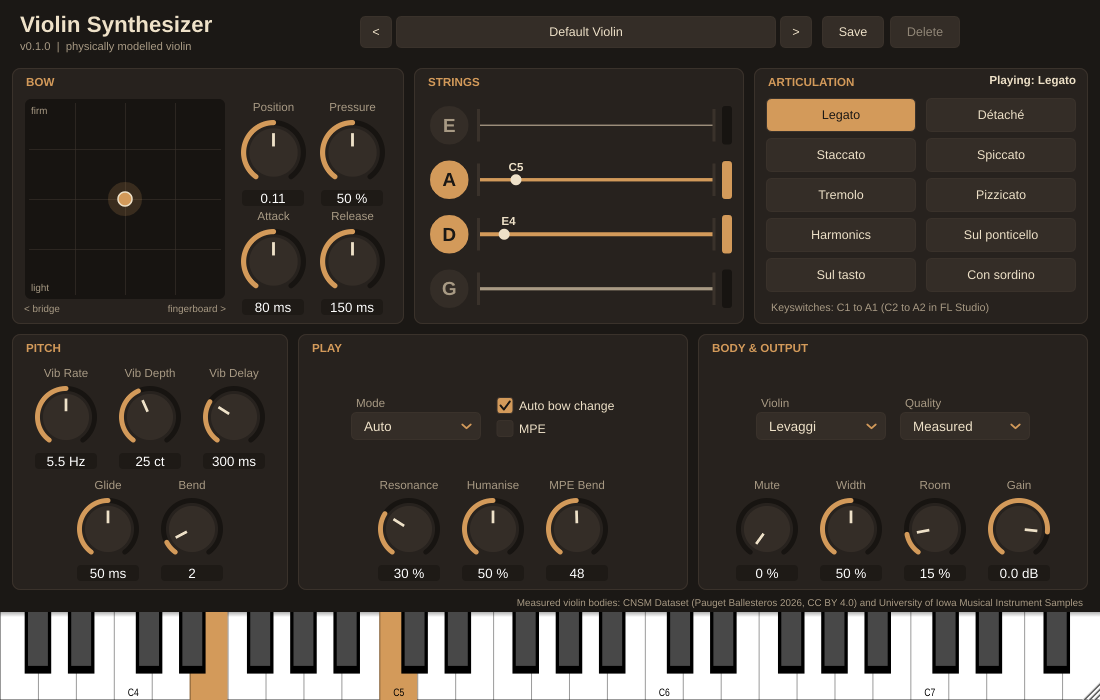
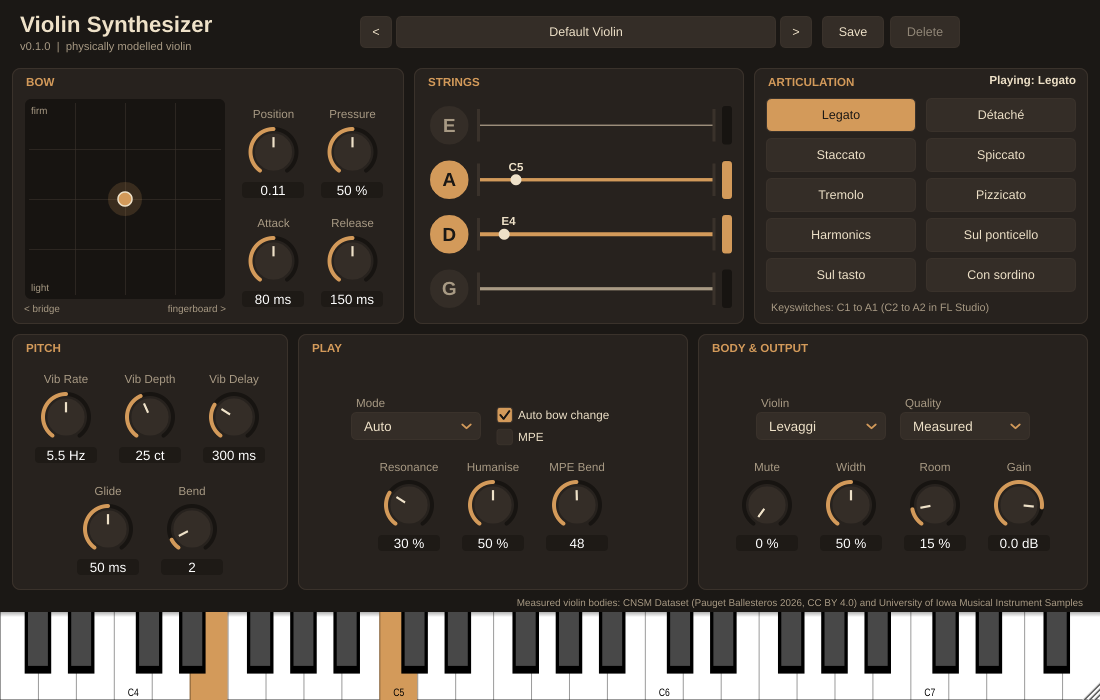
Centre the Play and Body content and shrink the knobs slightly
Play and Body & Output now centre their options and knobs together in
the panel, the switches line up with the drop-down boxes, and every knob
is a little smaller with its label and value centred in its cell, so the
Bow knobs no longer crowd each other's labels.

Claude-Session: https://claude.ai/code/session_01HJRCCAYiaSNmSYrcCVKQ5Y

diff --git a/source/plugin/PluginEditor.cpp b/source/plugin/PluginEditor.cpp
@@ -17,15 +17,20 @@ constexpr int headerHeight = 64;
 constexpr int keyboardHeight = 88;
 constexpr int creditsHeight = 18;
 
-// Bottom-row panels are built from two bands of equal height. Knobs sit in
-// fixed-width cells so they are the same size in every panel, and each panel
-// leaves room for another knob per row and another line of options.
+// Knobs in the bottom row sit in fixed-width cells, and each panel leaves
+// room for another knob per row and another line of options.
 constexpr int knobCellWidth = 84;
-constexpr int bandGap = 6;
+constexpr int rowGap = 6;
 constexpr int choiceWidth = 130;
 constexpr int toggleColumnWidth = 140;
 constexpr int optionGap = 14;
-constexpr int optionHeight = 46; // a choice's label and box, or two stacked toggles
+constexpr int optionLabelHeight = 18;
+constexpr int optionHeight = optionLabelHeight + 28; // a drop-down's label and box
+constexpr int optionLineGap = 8;
+constexpr int toggleHeight = 22;
+
+// Every knob in the editor: label, dial and value box.
+constexpr int knobHeight = 18 + 58 + 18;
 } // namespace
 
 //==============================================================================
@@ -197,10 +202,9 @@ public:
                     buttonHeight);
         }
 
-        // Bottom row: pitch, play, body and output. Each panel has an upper and a
-        // lower band. Pitch puts vibrato above glide and bend; Play and Body put
-        // their options (drop-downs and switches) above their knobs, so all
-        // knob rows line up across the editor.
+        // Bottom row: pitch, play, body and output. Pitch puts vibrato above
+        // glide and bend; Play and Body put their options (drop-downs and
+        // switches) above their knobs. Each panel's content is centred in it.
         {
             auto pitch = addPanel ("Pitch", bottom.removeFromLeft (3 * knobCellWidth + 24));
             bottom.removeFromLeft (gap);
@@ -208,16 +212,12 @@ public:
             bottom.removeFromLeft (gap);
             auto body = addPanel ("Body & Output", bottom);
 
-            const auto bandHeight = (pitch.getHeight() - bandGap) / 2;
+            const auto rowHeight = (pitch.getHeight() - rowGap) / 2;
+            layoutKnobRow ({ pitchKnobs.begin(), pitchKnobs.begin() + 3 }, pitch.removeFromTop (rowHeight));
+            layoutKnobRow ({ pitchKnobs.begin() + 3, pitchKnobs.end() }, pitch.removeFromBottom (rowHeight));
 
-            layoutKnobRow ({ pitchKnobs.begin(), pitchKnobs.begin() + 3 }, pitch.removeFromTop (bandHeight));
-            layoutKnobRow ({ pitchKnobs.begin() + 3, pitchKnobs.end() }, pitch.removeFromBottom (bandHeight));
-
-            layoutOptions (playChoices, playToggles, play.removeFromTop (bandHeight));
-            layoutKnobRow (playKnobs, play.removeFromBottom (bandHeight));
-
-            layoutOptions (bodyChoices, {}, body.removeFromTop (bandHeight));
-            layoutKnobRow (bodyKnobs, body.removeFromBottom (bandHeight));
+            layoutOptionsAndKnobs (playChoices, playToggles, playKnobs, play);
+            layoutOptionsAndKnobs (bodyChoices, {}, bodyKnobs, body);
         }
     }
 
@@ -314,10 +314,27 @@ private:
         return bounds.reduced (12, 8).withTrimmedTop (titleHeight - 6);
     }
 
+    // A knob with its label above and value below, centred in the area.
     static void layoutKnob (Knob& k, juce::Rectangle<int> area)
     {
+        area = area.withSizeKeepingCentre (area.getWidth(), juce::jmin (area.getHeight(), knobHeight));
         k.label.setBounds (area.removeFromTop (18));
         k.slider.setBounds (area.reduced (2, 0));
+    }
+
+    // Options above a knob row, centred together in the area.
+    static void layoutOptionsAndKnobs (const std::vector<Choice*>& choiceList,
+                                       const std::vector<Toggle*>& toggleList,
+                                       const std::vector<Knob*>& knobRow,
+                                       juce::Rectangle<int> area)
+    {
+        constexpr int spacing = 18;
+        const auto optionsHeight = layoutOptions (choiceList, toggleList, area); // measures first
+        auto block = area.withSizeKeepingCentre (area.getWidth(),
+                                                 juce::jmin (area.getHeight(), optionsHeight + spacing + knobHeight));
+        layoutOptions (choiceList, toggleList, block.removeFromTop (optionsHeight));
+        block.removeFromTop (spacing);
+        layoutKnobRow (knobRow, block);
     }
 
     // A centred row of fixed-width knob cells.
@@ -342,27 +359,32 @@ private:
         }
     }
 
-    // Drop-downs side by side, then the switches stacked in pairs, centred in
-    // the area. Items that do not fit on one line wrap onto the next.
-    static void layoutOptions (const std::vector<Choice*>& choiceList,
-                               const std::vector<Toggle*>& toggleList,
-                               juce::Rectangle<int> area)
+    // Drop-downs side by side, then the switches stacked in pairs beside
+    // them, centred across the top of the area. Items that do not fit on one
+    // line wrap onto the next. Returns the height used.
+    static int layoutOptions (const std::vector<Choice*>& choiceList,
+                              const std::vector<Toggle*>& toggleList,
+                              juce::Rectangle<int> area)
     {
         std::vector<std::pair<int, std::function<void (juce::Rectangle<int>)>>> items;
         for (auto* c : choiceList)
             items.emplace_back (choiceWidth,
                                 [c] (juce::Rectangle<int> r)
                                 {
-                                    c->label.setBounds (r.removeFromTop (18));
-                                    c->box.setBounds (r.removeFromTop (28));
+                                    c->label.setBounds (r.removeFromTop (optionLabelHeight));
+                                    c->box.setBounds (r);
                                 });
         for (std::size_t i = 0; i < toggleList.size(); i += 2)
             items.emplace_back (toggleColumnWidth,
                                 [&toggleList, i] (juce::Rectangle<int> r)
                                 {
-                                    const auto rowHeight = r.getHeight() / 2;
-                                    for (auto t = i; t < juce::jmin (i + 2, toggleList.size()); ++t)
-                                        toggleList[t]->button.setBounds (r.removeFromTop (rowHeight));
+                                    // Centred on the drop-downs' boxes rather than their labels.
+                                    const auto count
+                                        = static_cast<int> (juce::jmin (std::size_t { 2 }, toggleList.size() - i));
+                                    auto column = r.withTrimmedTop (optionLabelHeight)
+                                                      .withSizeKeepingCentre (r.getWidth(), count * toggleHeight);
+                                    for (auto t = i; t < i + static_cast<std::size_t> (count); ++t)
+                                        toggleList[t]->button.setBounds (column.removeFromTop (toggleHeight));
                                 });
 
         std::vector<std::vector<std::size_t>> lines (1);
@@ -380,21 +402,21 @@ private:
             lineWidth += needed;
         }
 
-        const auto numLines = static_cast<int> (lines.size());
-        auto block = area.withSizeKeepingCentre (area.getWidth(), numLines * optionHeight + (numLines - 1) * 8);
         for (const auto& line : lines)
         {
             int width = -optionGap;
             for (auto i : line)
                 width += items[i].first + optionGap;
-            auto row = block.removeFromTop (optionHeight).withSizeKeepingCentre (width, optionHeight);
-            block.removeFromTop (8);
+            auto row = area.removeFromTop (optionHeight).withSizeKeepingCentre (width, optionHeight);
+            area.removeFromTop (optionLineGap);
             for (auto i : line)
             {
                 items[i].second (row.removeFromLeft (items[i].first));
                 row.removeFromLeft (optionGap);
             }
         }
+        const auto numLines = static_cast<int> (lines.size());
+        return numLines * optionHeight + (numLines - 1) * optionLineGap;
     }
 
     void timerCallback() override
